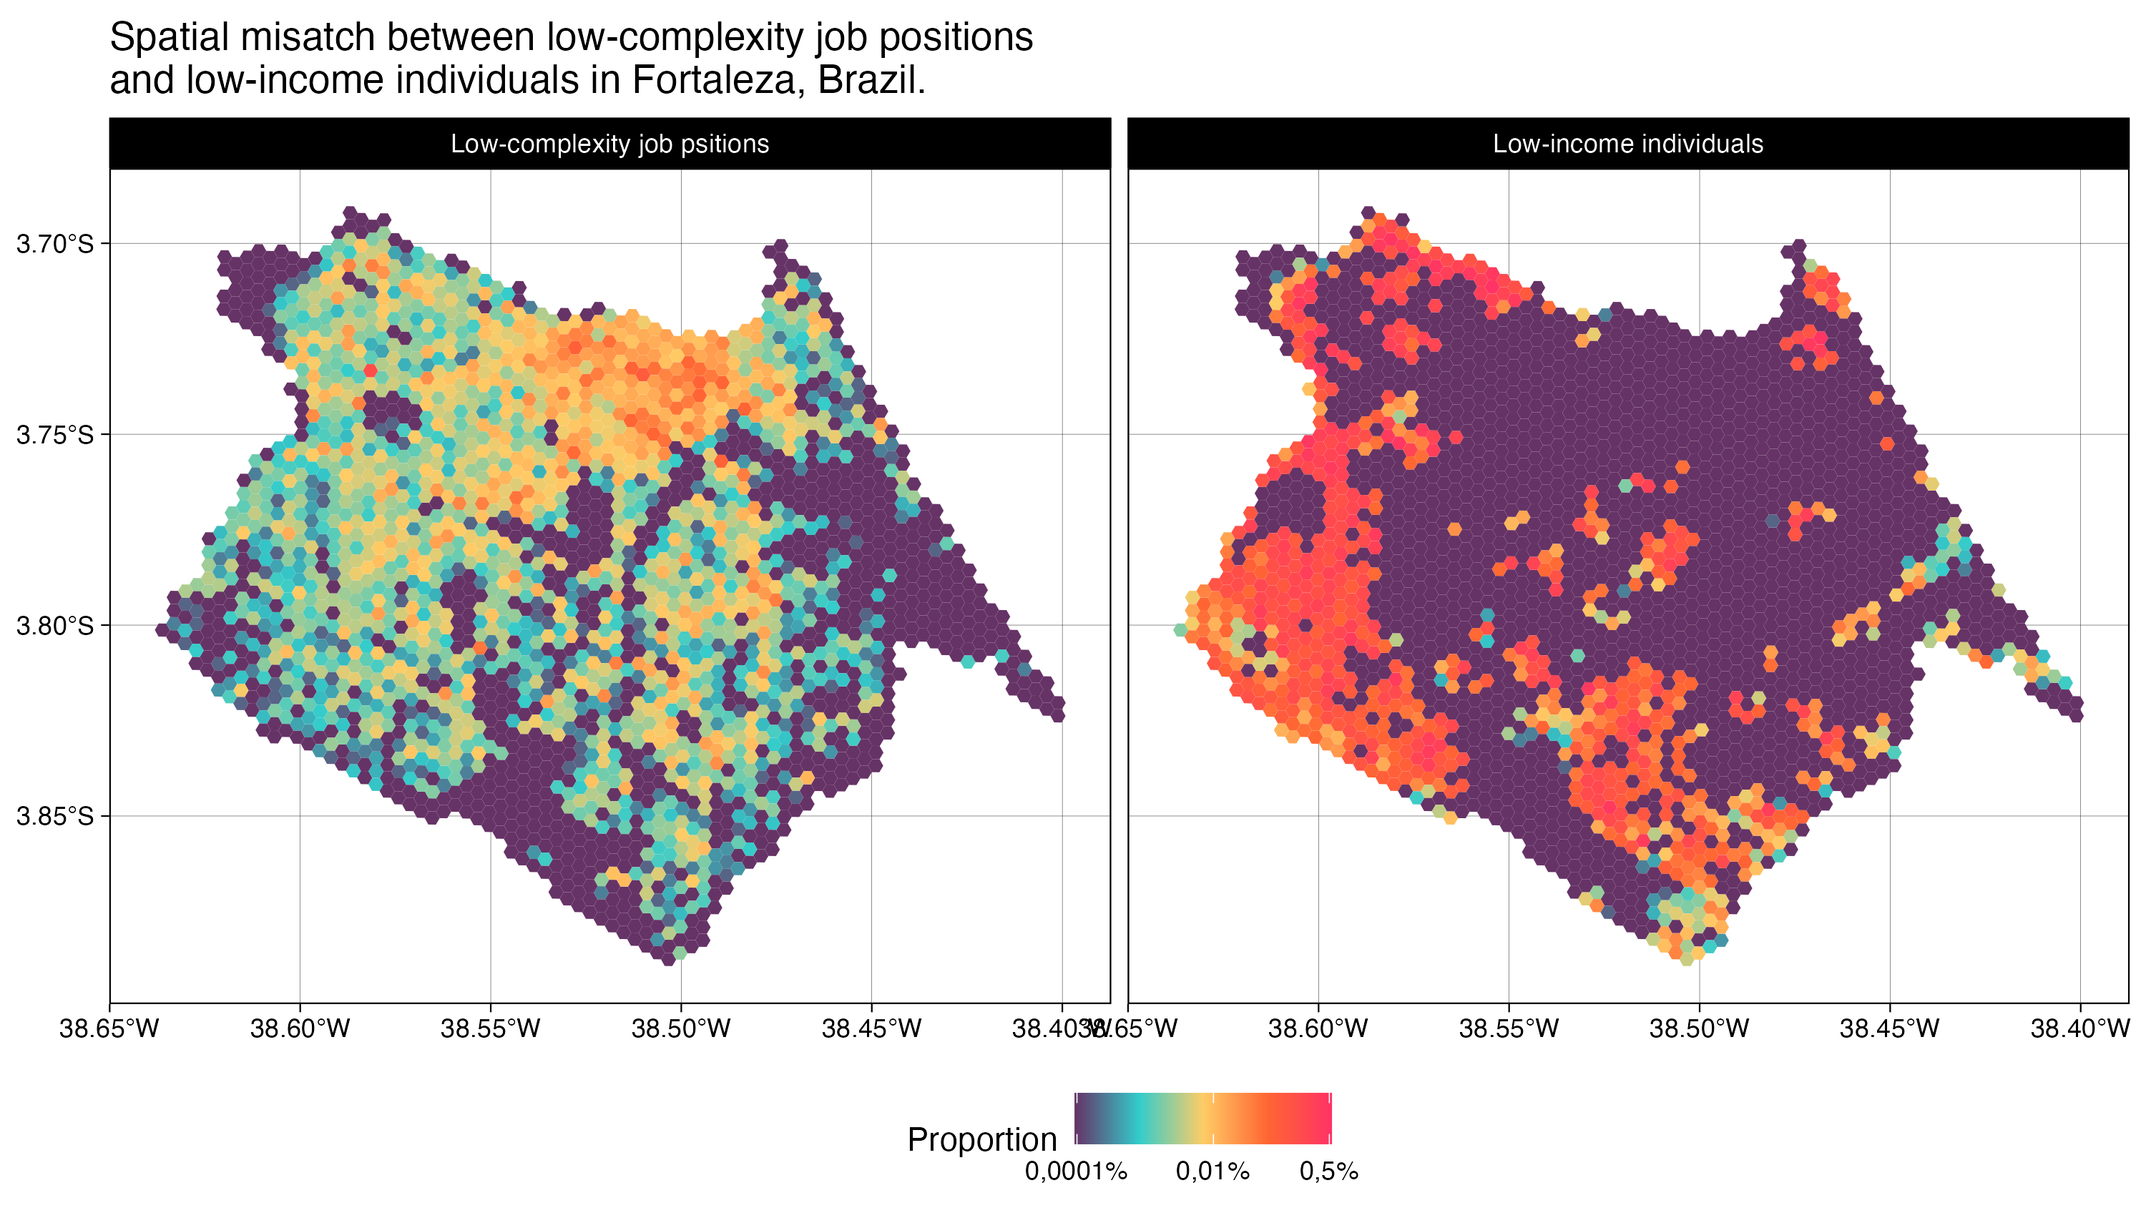
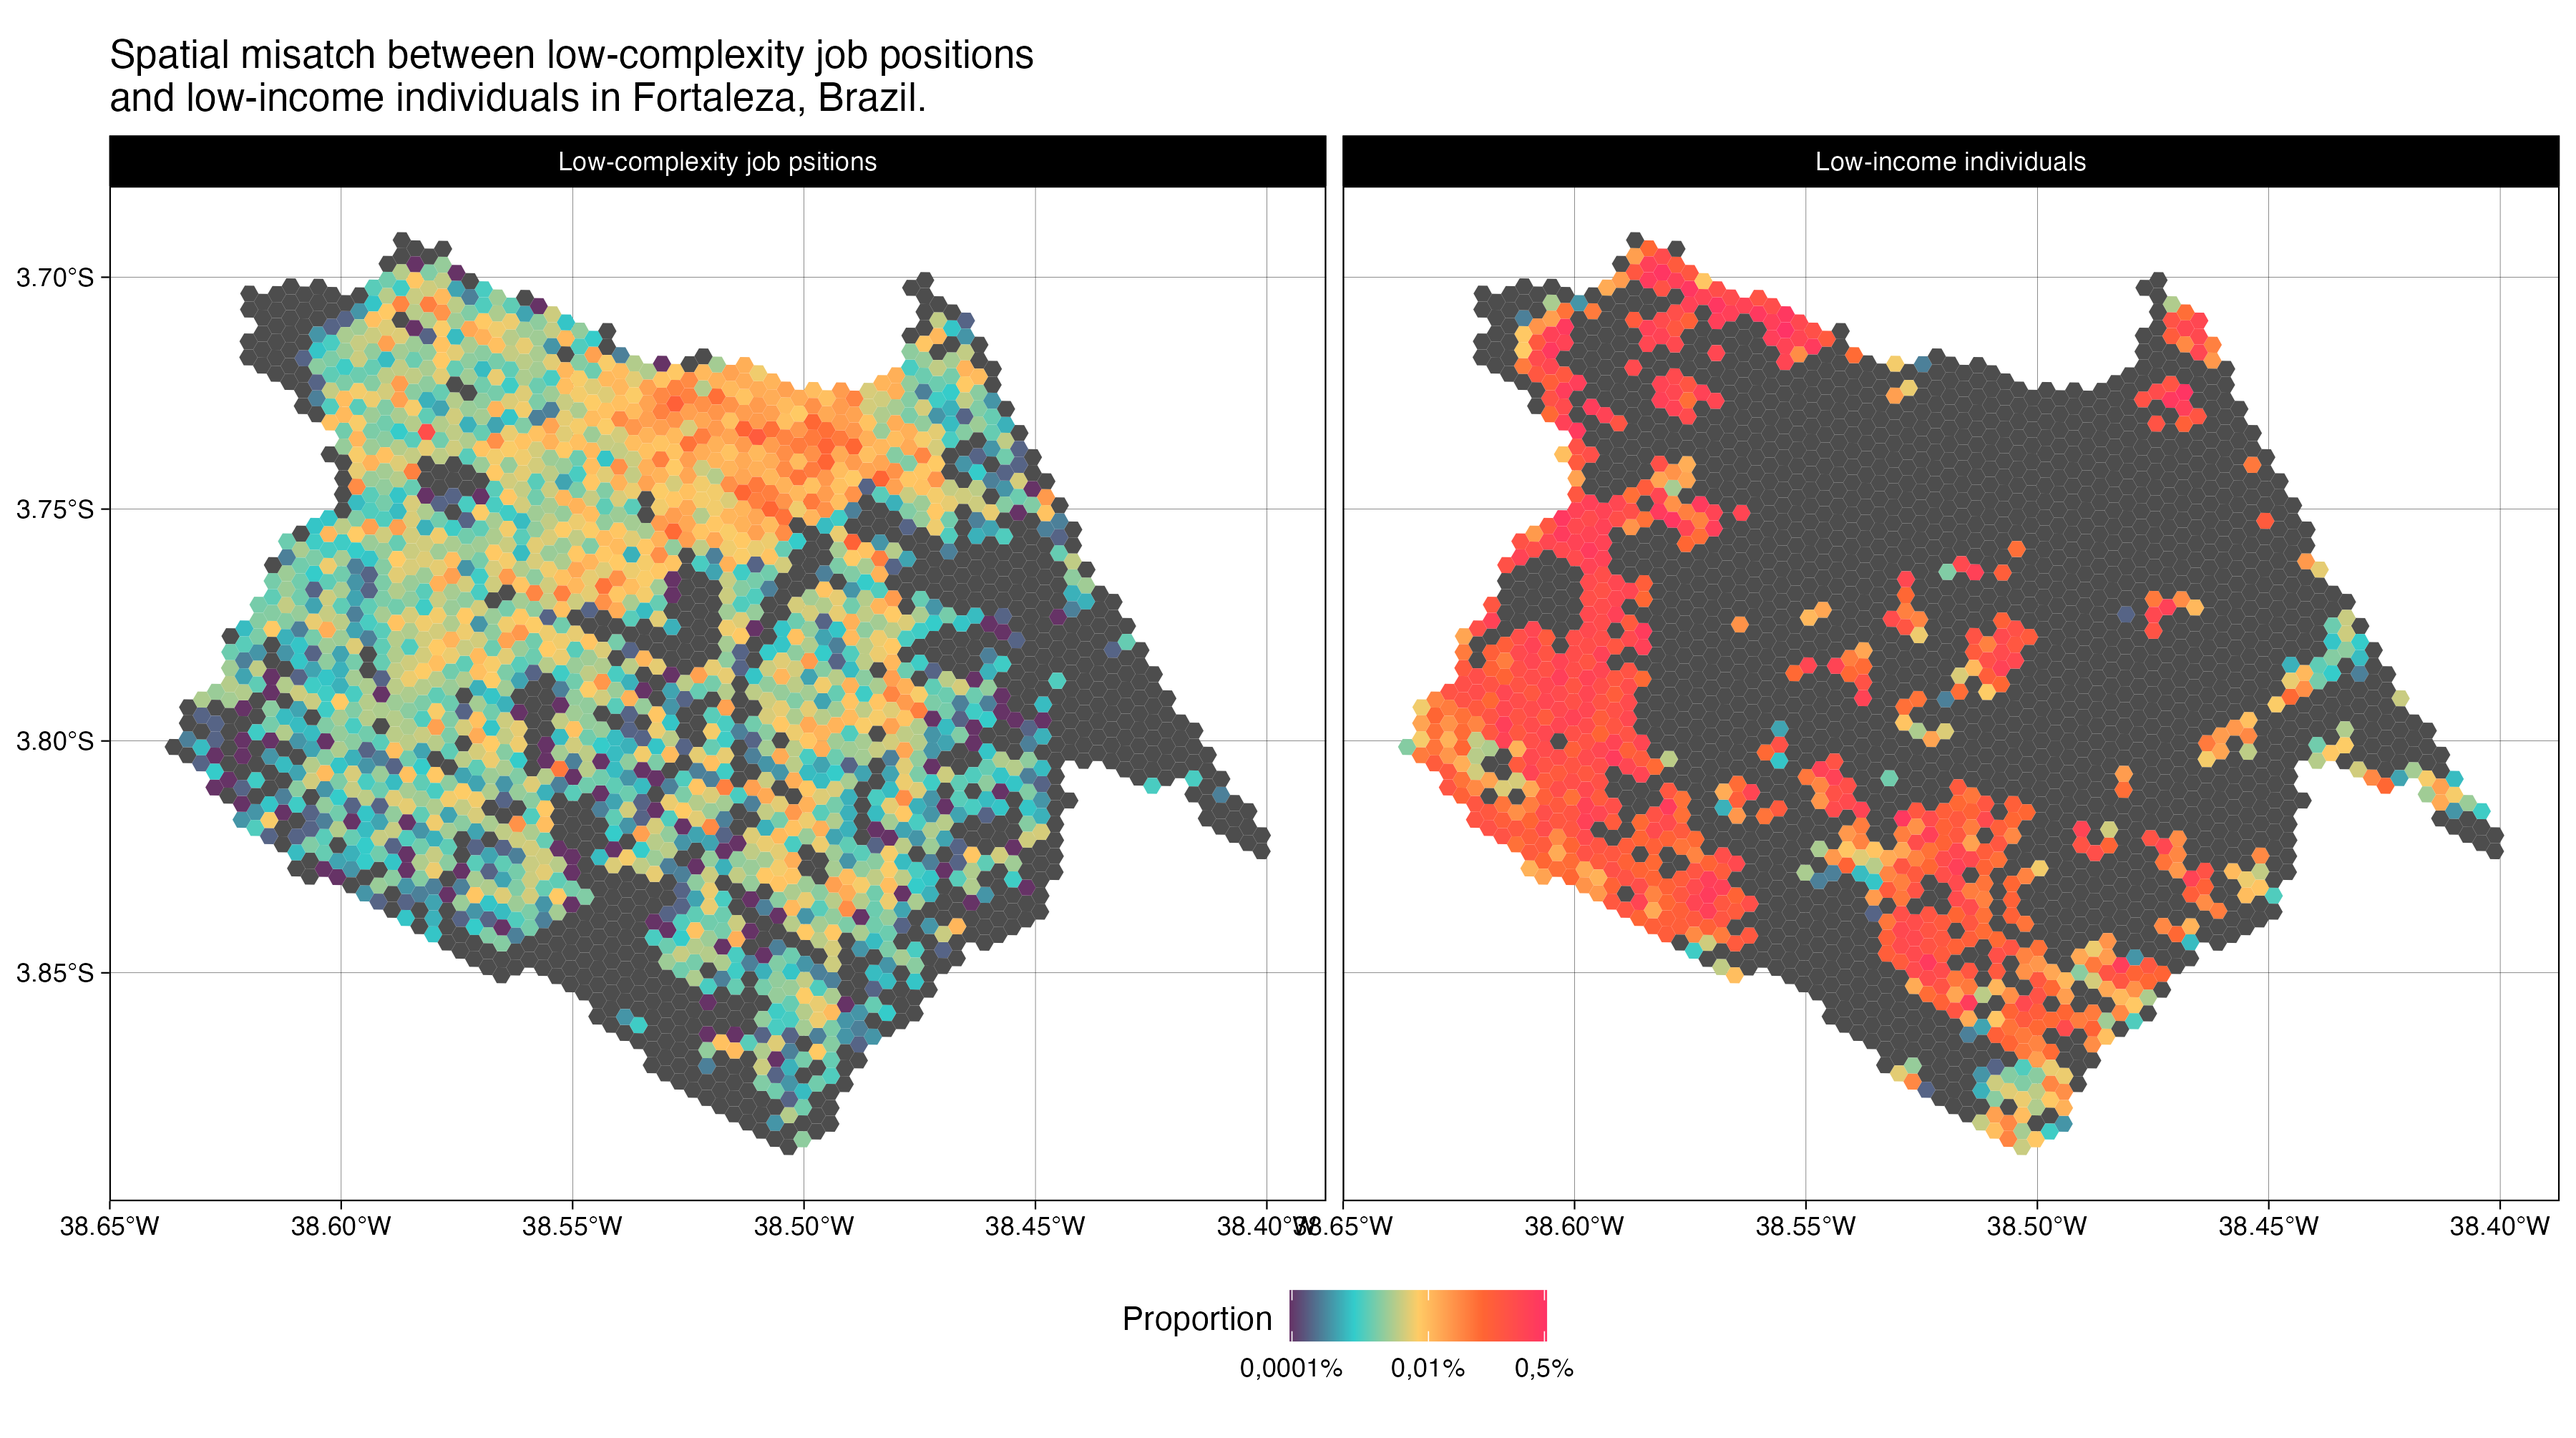
working on readme

diff --git a/README.md b/README.md
@@ -31,7 +31,7 @@ The `okcolors` package provides **three** simple functions:
 1.  `okcolors()` – returns a `n` number of color hex codes from a named `palette`.
 2.  `scale_color_okcolors()` – adds a custom color scale to a `ggplot2` plot.
 3.  `scale_fill_okcolors()` – adds a custom fill scale to a `ggplot2` plot.
-4.  `valid_palettes()` - 
+4.  `valid_palettes()` - lists available palettes in the okcolors Package.
 
 ``` r
 library(ggplot2)
@@ -80,6 +80,9 @@ okcolors('obsession', 12)
 
 <img src="figs/pal.it.jpeg?raw=true" height="250"/>
 
+
+Source: Quesado Filho, N. de O., Guimarães, C. G. C. (2024). _GTFSwizard: Exploring and Manipulating 'GTFS' Files_. R package version 1.1.0, <https://github.com/OPATP/GTFSwizard>.
+
 ### stone - A stone only rolls downhill
 
 <img src="figs/stone.jpeg?raw=true" height="250"/>
@@ -113,7 +116,13 @@ left_join(shp, lu, by = 'id_hex') %>%
   ggplot() +
   geom_sf(aes(fill = value), color = NA) +
   facet_grid(.~name) + 
-  scale_fill_okcolors(pal, discrete = F, transform = 'log', na.value = okcolors(pal, 1, direction = -1), breaks = c(.000001, .0001, .005), labels = c('0,0001%', '0,01%', '0,5%'), name = 'Proportion', direction = -1) +
+  scale_fill_okcolors(pal, discrete = F,
+                      transform = 'log',
+                      na.value = 'gray30',
+                      breaks = c(.000001, .0001, .005),
+                      labels = c('0,0001%', '0,01%', '0,5%'),
+                      name = 'Proportion\n',
+                      direction = -1) +
   theme_linedraw() +
   labs(title = 'Spatial misatch between low-complexity job positions\nand low-income individuals in Fortaleza, Brazil.') +
   theme(legend.position = 'bottom')
@@ -121,7 +130,7 @@ left_join(shp, lu, by = 'id_hex') %>%
 
 <img src="figs/example.skyscrapers.png?raw=true" height="400"/>
 
-Source: Pereira, Rafael H. M. et al. (2022) Distribuição espacial de características sociodemográficas e localização de empregos e serviços públicos das vinte maiores cidades do Brasil. Texto para Discussão 2772. Ipea - Instituto de Pesquisa Econômica Aplicada. http://dx.doi.org/10.38116/td2772
+Source: Pereira, Rafael H. M. et al. (2022) _Distribuição espacial de características sociodemográficas e localização de empregos e serviços públicos das vinte maiores cidades do Brasil._ Texto para Discussão 2772. Ipea - Instituto de Pesquisa Econômica Aplicada. http://dx.doi.org/10.38116/td2772
 
 ### obsession - Obsession
 
